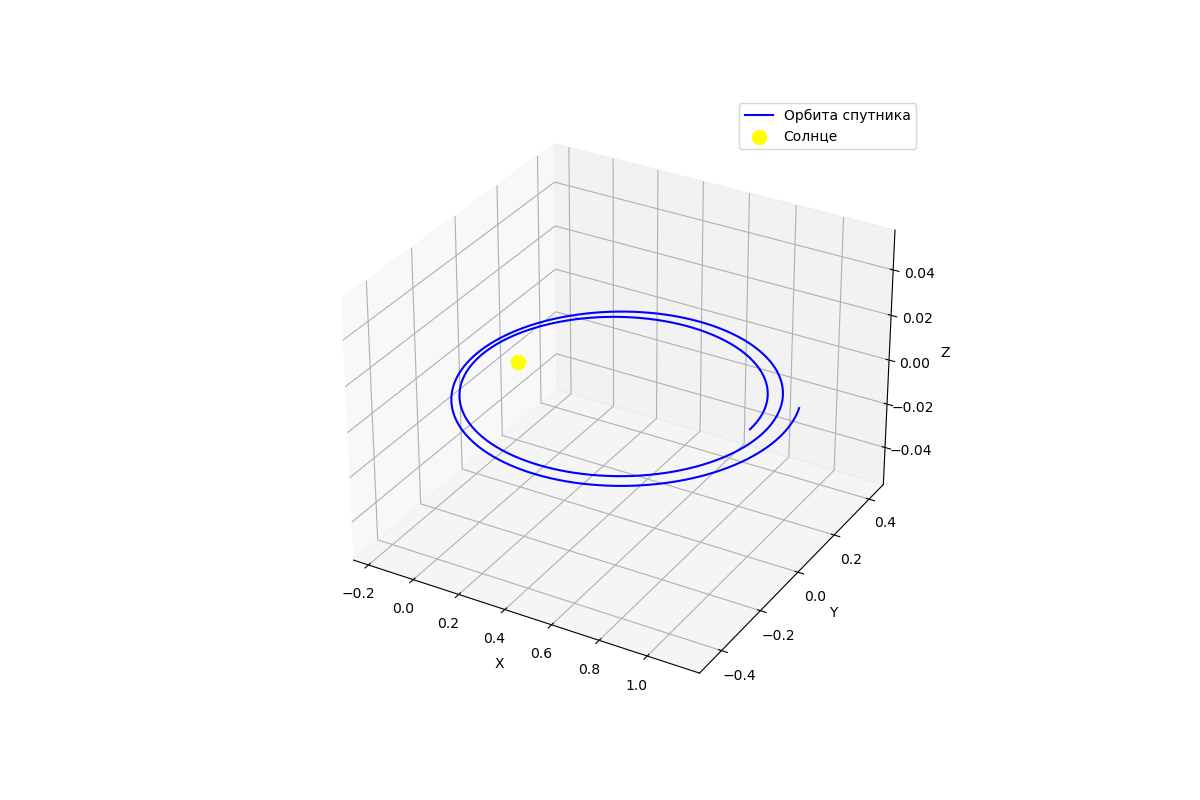
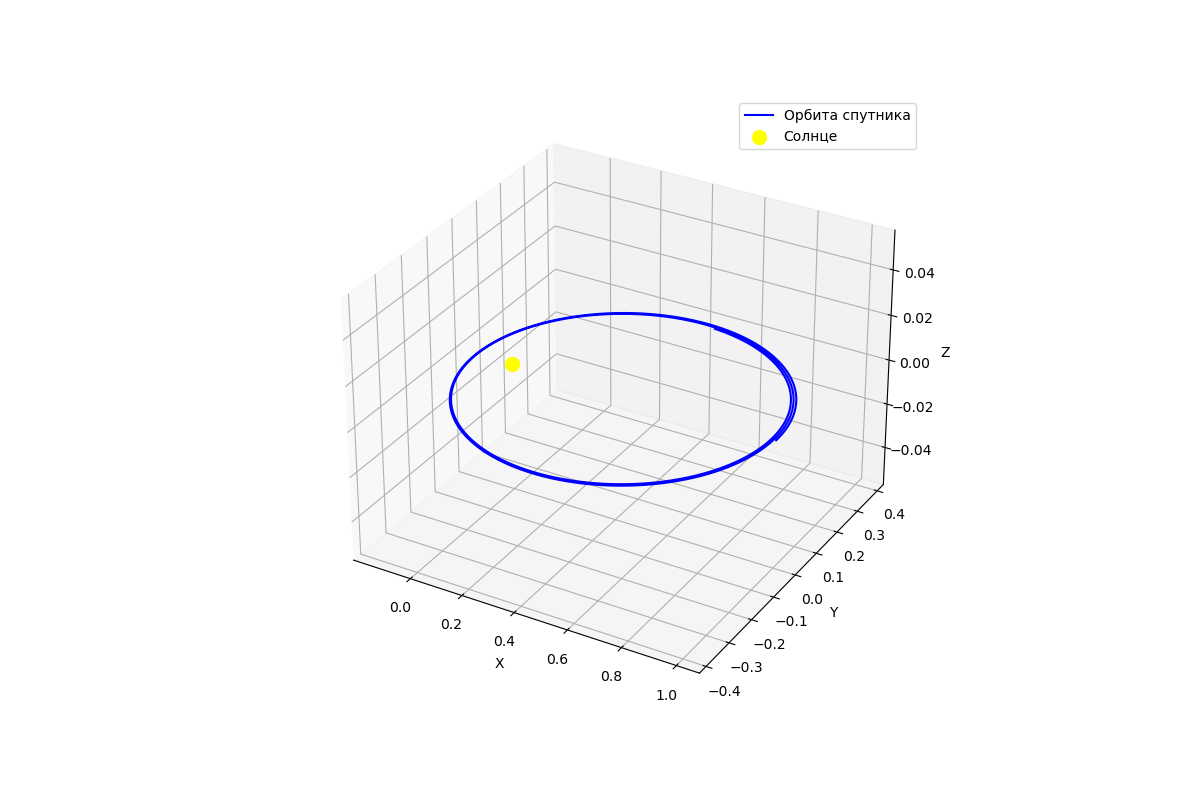
добавлены константы для solar force

diff --git a/SolarSailing_/solar_force.py b/SolarSailing_/solar_force.py
@@ -1,10 +1,11 @@
 import constants as const
 import numpy as np
 
-S = 100 * 10 ** (-6) / const.AU
-
+# solar pressure at one astronomical unit (AU)
 P = 1
-A = 1
+
+# sail area
+A = 100 * 10 ** (-6) / const.AU
 
 # коэффициент отражения
 r = 0.1
@@ -15,8 +16,8 @@ n = np.array([1, 0, 0])
 # касательная
 t = np.array([0, 1, 0])
 
-# eугол падения солнца
-alpha = 10
+# угол падения солнца
+alpha = 0
 cos_a = np.cos(alpha)
 sin_a = np.sin(alpha)
 # направление падения солнечного луча
@@ -26,16 +27,19 @@ u = cos_a * n + sin_a * t
 s = - cos_a * n + sin_a * t
 s_norm = np.linalg.norm(s)
 
-B_f = 1  # front
-B_b = 1  # back
-e_f = 1  # излучение от передней поверхности
-e_b = 1
+# non-Lambertian coefficients
+B_f = 0.79  # front
+B_b = 0.55  # back
+e_f = 0.05  # излучение от передней поверхности
+e_b = 0.55
 
 f_n = P * A * ((1 + r * s_norm) * cos_a**2 + B_f * (1 - s_norm) * r * cos_a + (1 - r) *
-               (e_f * B_f + e_b * B_f / (e_f + e_b)) * cos_a) * n
+               (e_f * B_f + e_b * B_f / (e_f + e_b)) * cos_a)
 
-f_t = P * A * (1 - r * s_norm) * cos_a * sin_a * t
+f_t = P * A * (1 - r * s_norm) * cos_a * sin_a
 
-def solar_force() -> np.array:
+def solar_force(n: np.array) -> np.array:
     global f_t, f_n
-    return f_t + f_n
+    e = [0, 0, 1]
+    t = np.cross(n, e)
+    return f_t * t + f_n * n

diff --git a/SolarSailing_/main.py b/SolarSailing_/main.py
@@ -19,8 +19,8 @@ def derivatives(t, y):
     # Ускорение
     a_trac = tf.traction_acceleration(m, e)
     a_grav = gravity_acceleration(r)
-    a_solar = sf.solar_force() / ip.m0
-    a = a_grav + a_trac + a_solar
+    a_solar = sf.solar_force(-v / v_norm) / ip.m0
+    a = a_grav +  a_solar
     m_dot = [-np.linalg.norm(a_trac) * m / tf.u]
 
     return np.concatenate((v, a, m_dot))
